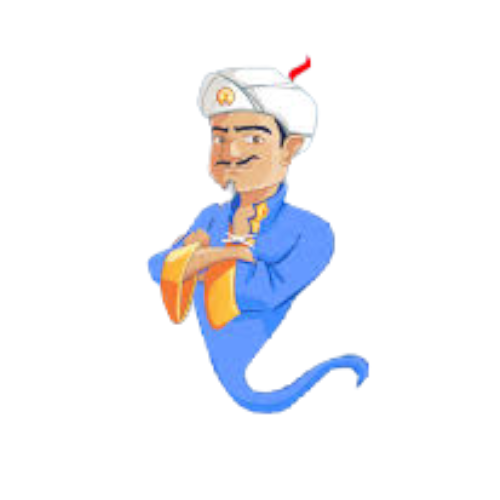
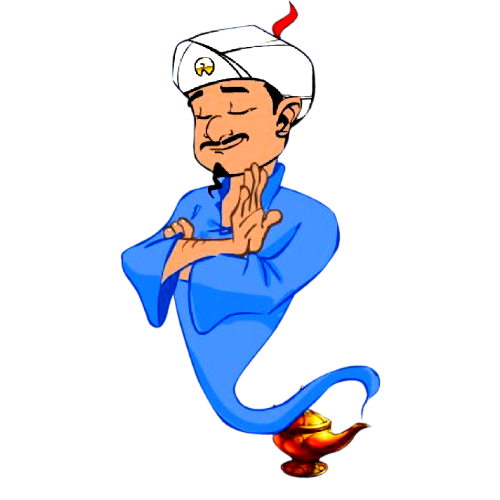
add an image

Changed region(s): [[0.24, 0.0, 0.78, 0.96], [0.45, 0.03, 0.51, 0.06]]

diff --git a/src/classes/TelaGenio.java b/src/classes/TelaGenio.java
@@ -28,17 +28,14 @@ public class TelaGenio extends javax.swing.JFrame {
     // <editor-fold defaultstate="collapsed" desc="Generated Code">//GEN-BEGIN:initComponents
     private void initComponents() {
 
-        jLabel2 = new javax.swing.JLabel();
         lblFrase = new javax.swing.JLabel();
         jLabel4 = new javax.swing.JLabel();
         txtVal = new javax.swing.JSpinner();
         btnPalpite = new javax.swing.JButton();
+        jLabel1 = new javax.swing.JLabel();
 
         setDefaultCloseOperation(javax.swing.WindowConstants.EXIT_ON_CLOSE);
         getContentPane().setLayout(new org.netbeans.lib.awtextra.AbsoluteLayout());
-
-        jLabel2.setIcon(new javax.swing.ImageIcon(getClass().getResource("/imagens/genio.png"))); // NOI18N
-        getContentPane().add(jLabel2, new org.netbeans.lib.awtextra.AbsoluteConstraints(100, 130, 390, 380));
 
         lblFrase.setFont(new java.awt.Font("Dialog", 1, 18)); // NOI18N
         lblFrase.setForeground(new java.awt.Color(0, 0, 0));
@@ -60,6 +57,10 @@ public class TelaGenio extends javax.swing.JFrame {
         });
         getContentPane().add(btnPalpite, new org.netbeans.lib.awtextra.AbsoluteConstraints(50, 390, -1, -1));
 
+        jLabel1.setIcon(new javax.swing.ImageIcon(getClass().getResource("/imagens/genio.png"))); // NOI18N
+        jLabel1.setText("jLabel1");
+        getContentPane().add(jLabel1, new org.netbeans.lib.awtextra.AbsoluteConstraints(130, 40, 390, -1));
+
         pack();
     }// </editor-fold>//GEN-END:initComponents
 
@@ -68,8 +69,8 @@ public class TelaGenio extends javax.swing.JFrame {
         int valor = (int) n;
         
         int num = Integer.parseInt(txtVal.getValue().toString());
-        String f1 = "ACERTOU!!!";
-        String f2 = "ERROU!Eu pensei no valor " + valor;
+        String f1 = "<html>ACERTOU!!!</html>";
+        String f2 = "<html>ERROU!Eu pensei no valor " + valor + "</html>";
         
         String res = (valor == num)? f1 : f2;
         
@@ -113,7 +114,7 @@ public class TelaGenio extends javax.swing.JFrame {
 
     // Variables declaration - do not modify//GEN-BEGIN:variables
     private javax.swing.JButton btnPalpite;
-    private javax.swing.JLabel jLabel2;
+    private javax.swing.JLabel jLabel1;
     private javax.swing.JLabel jLabel4;
     private javax.swing.JLabel lblFrase;
     private javax.swing.JSpinner txtVal;
